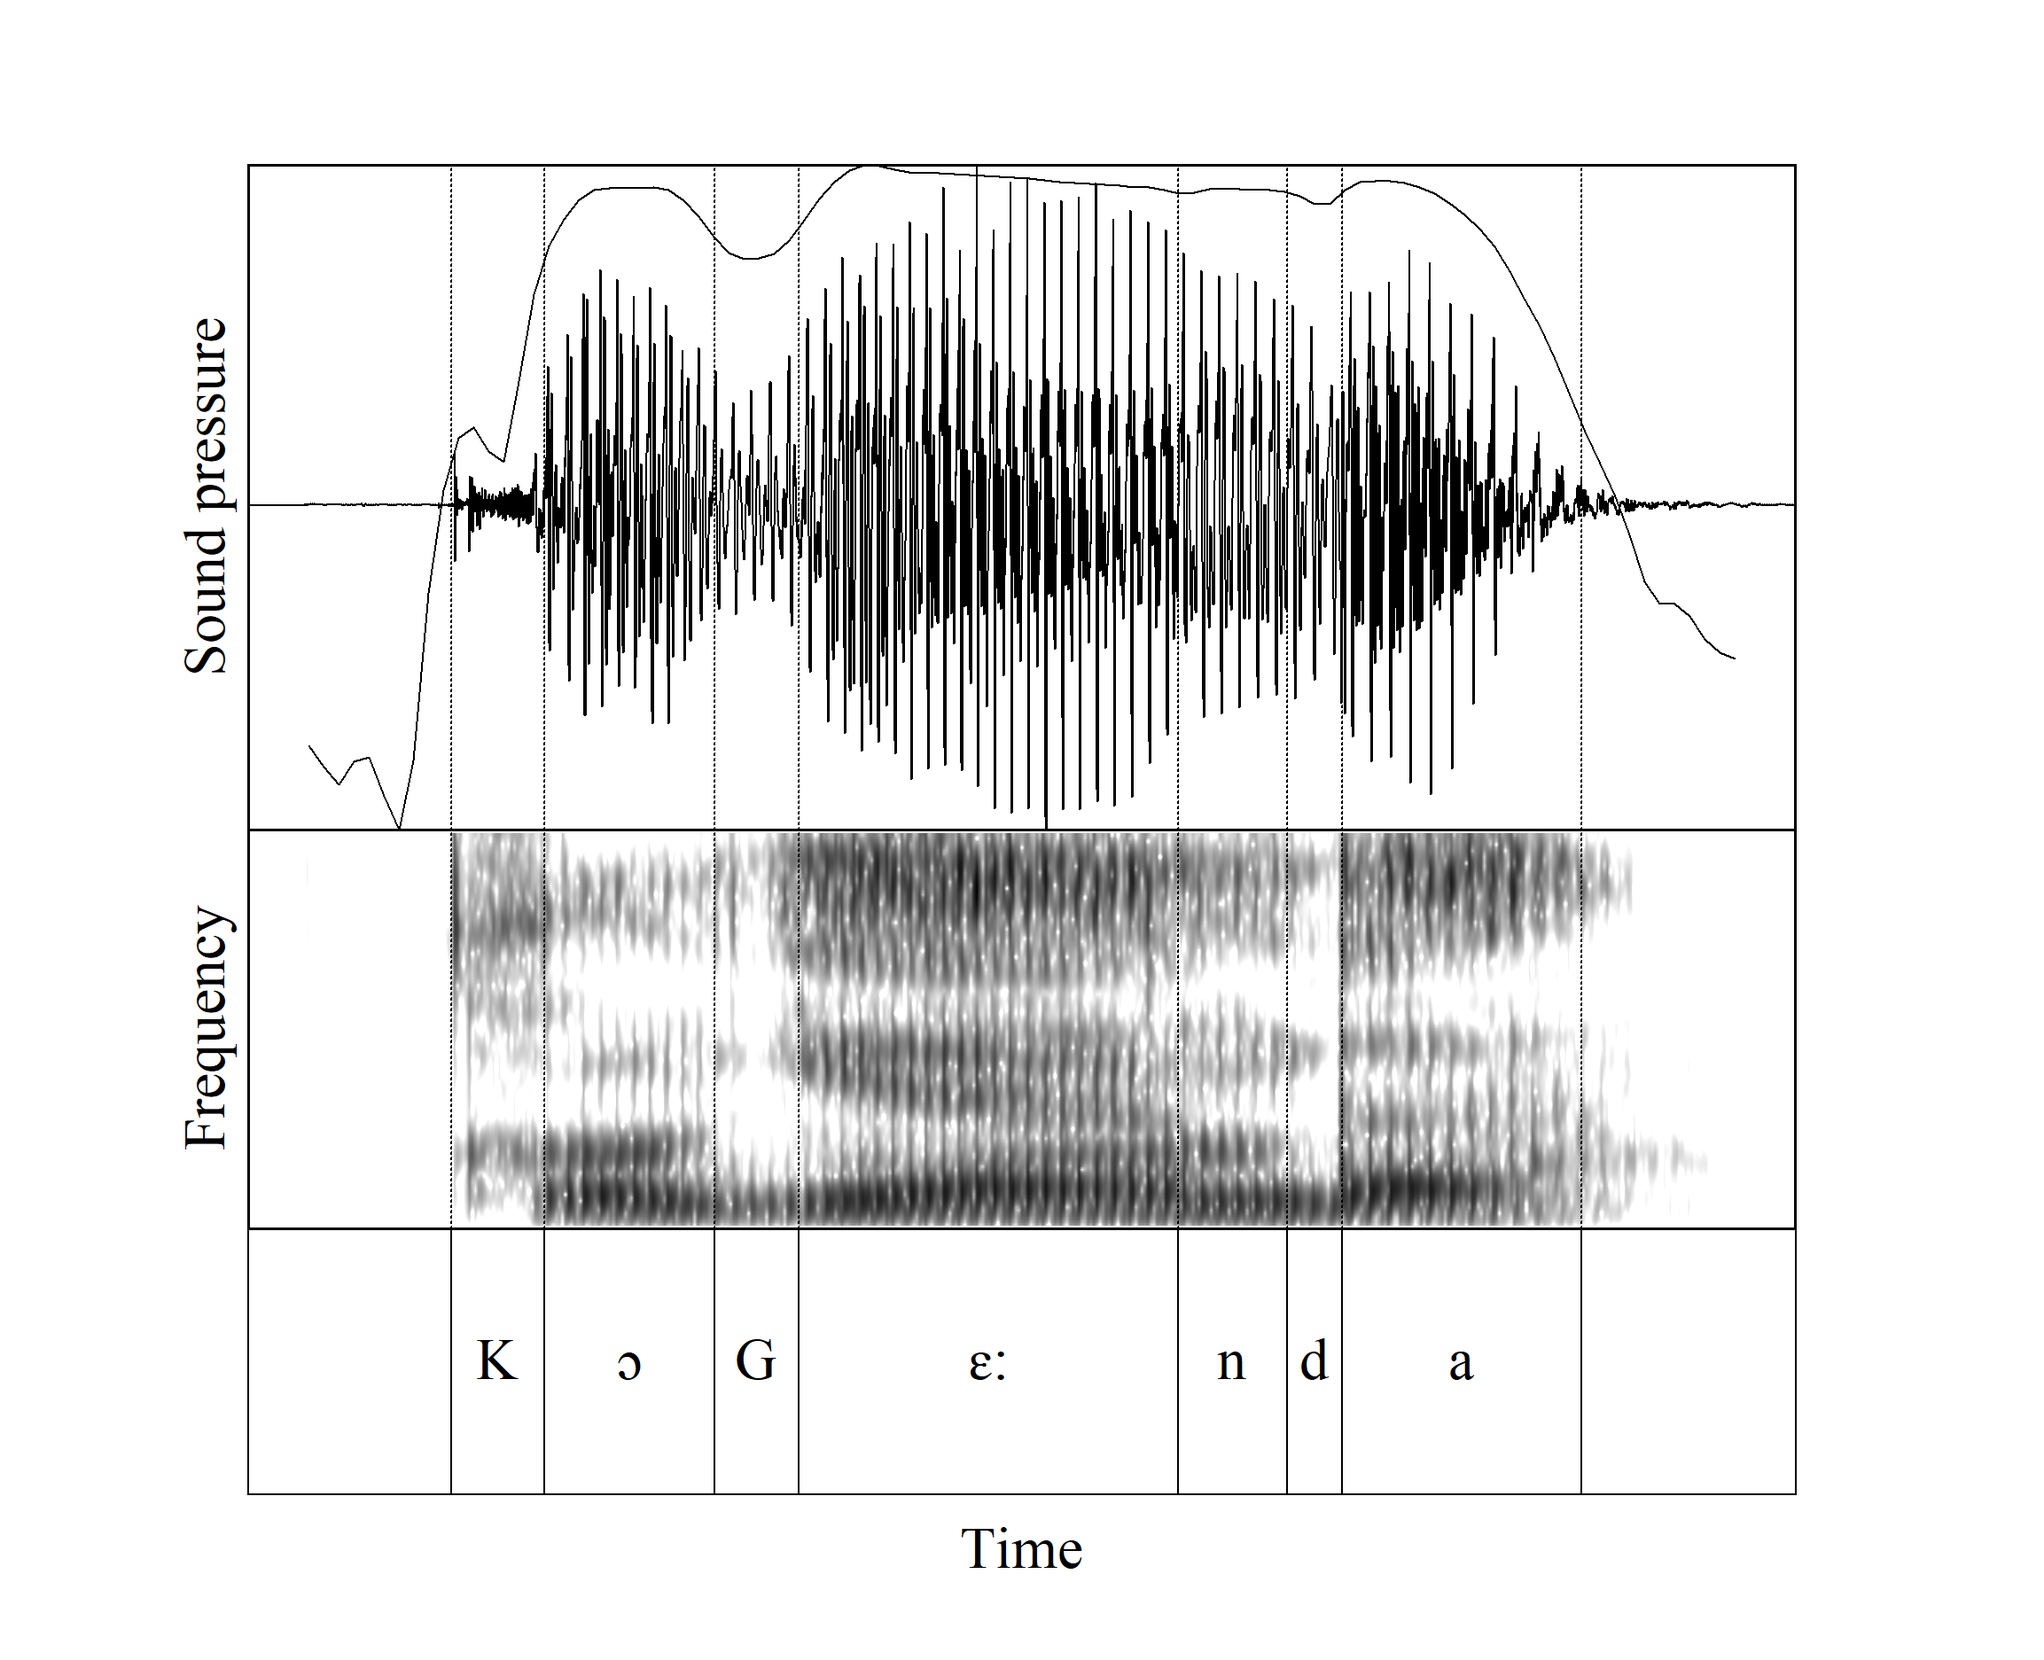
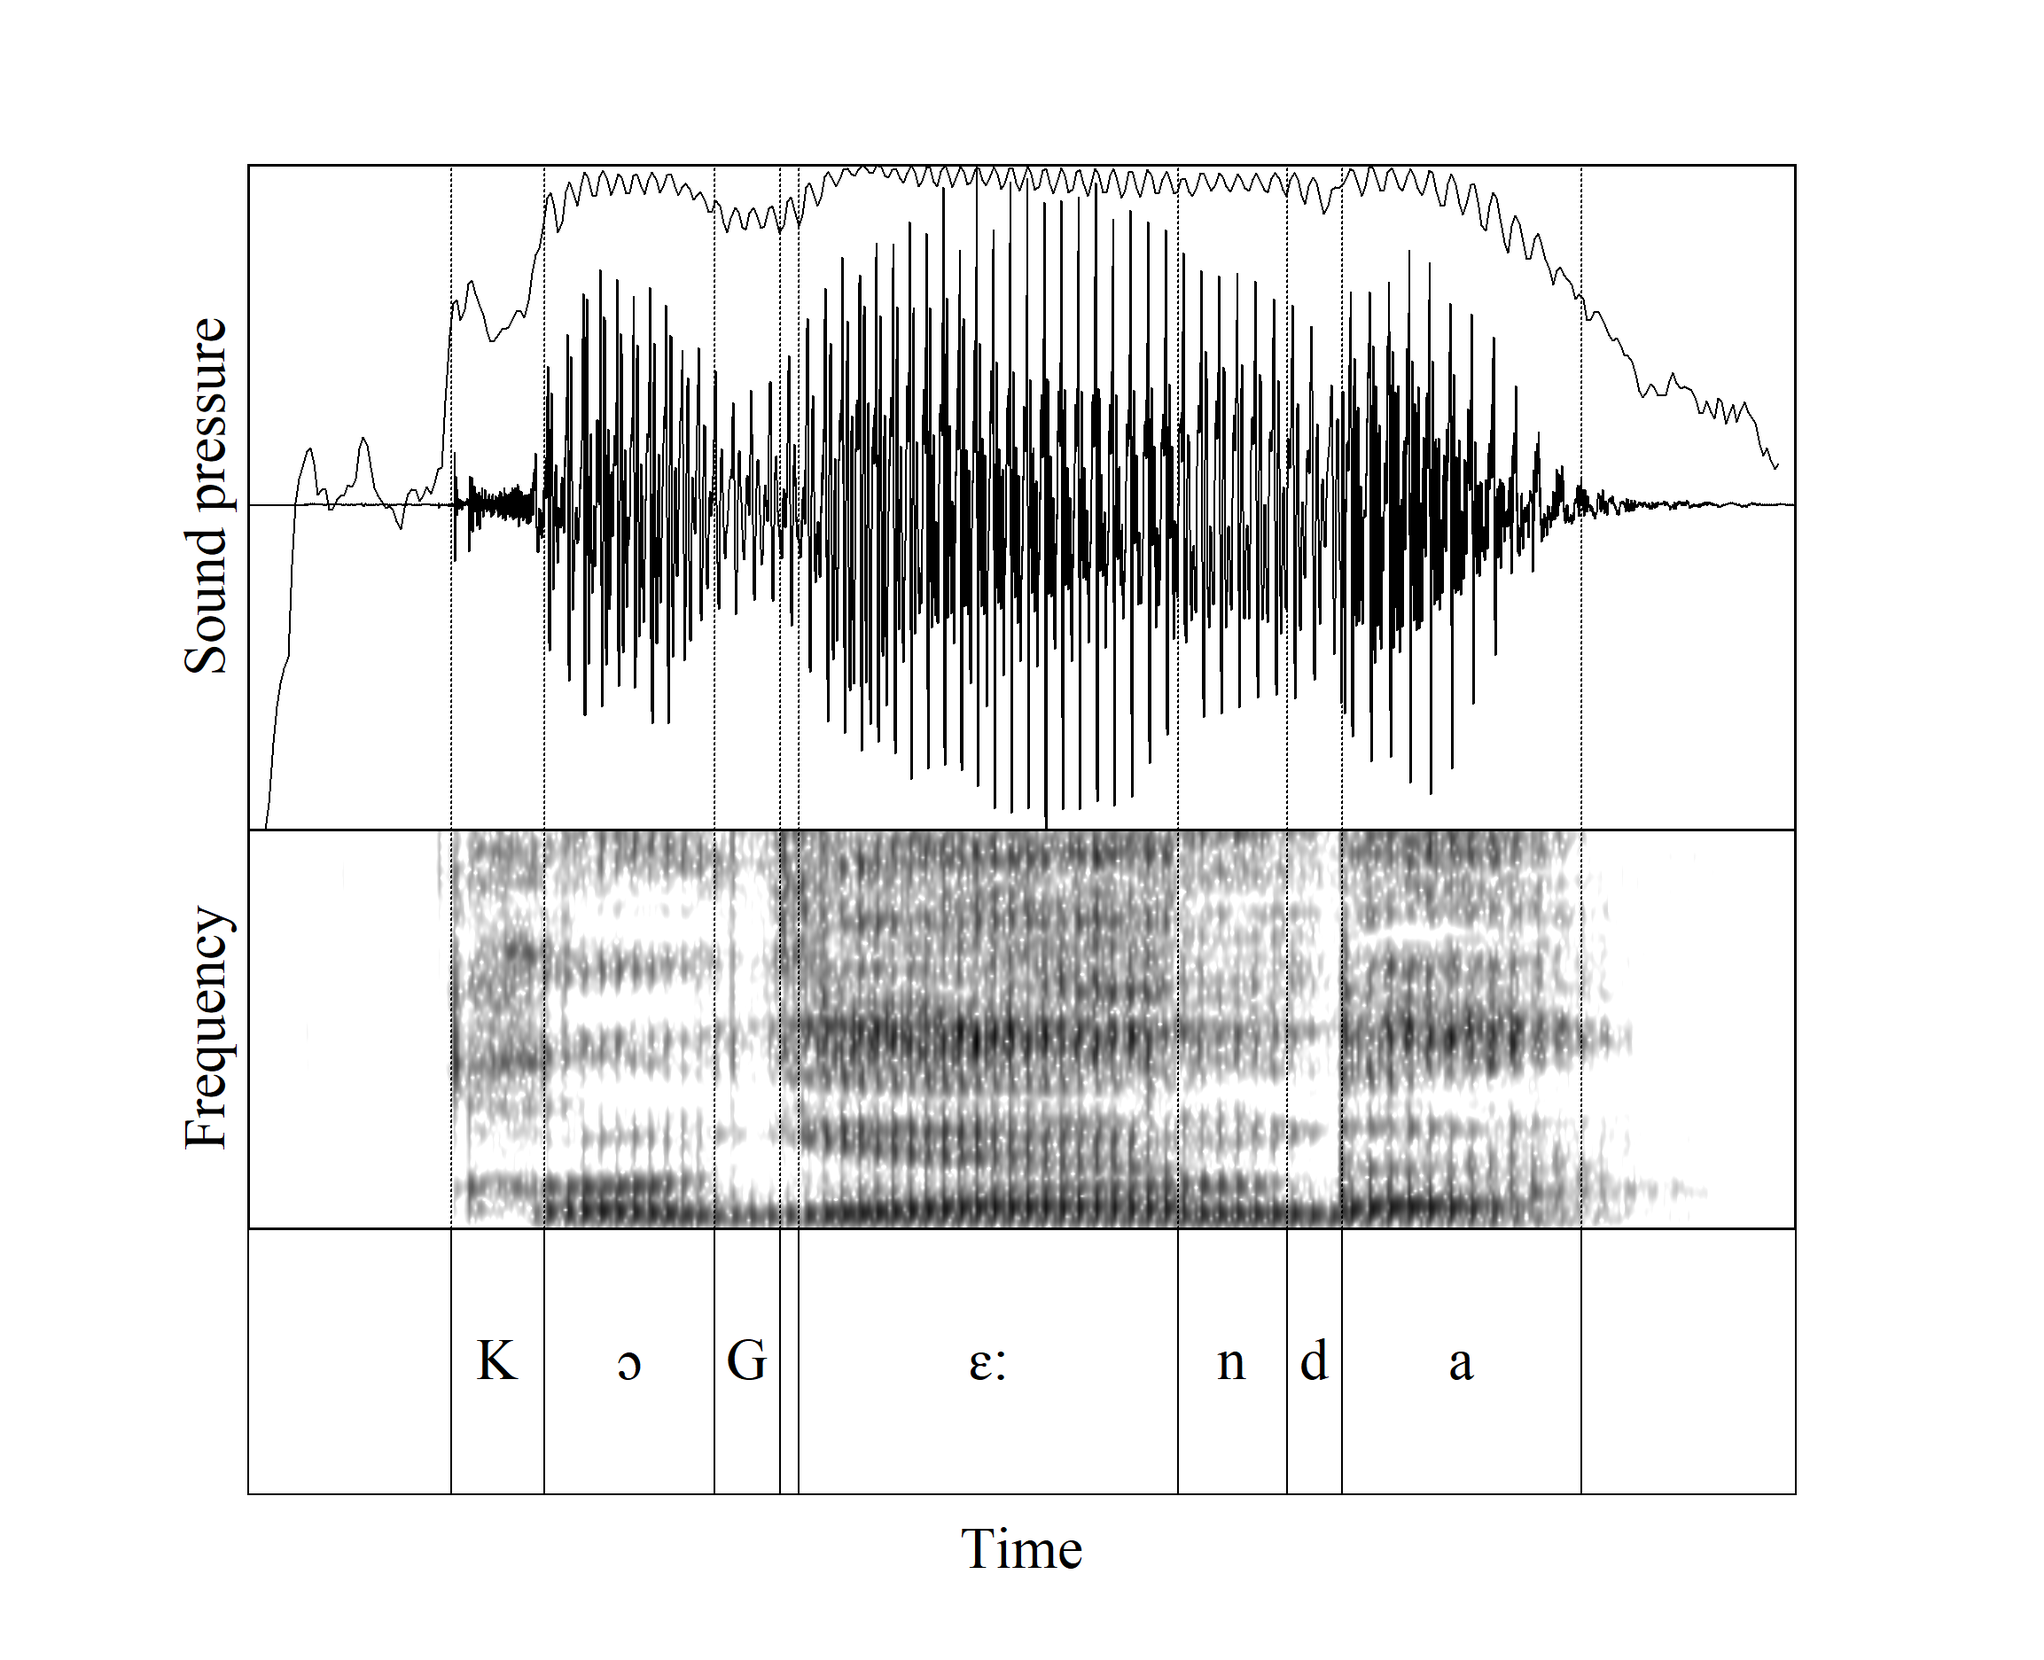
New constriction pages

diff --git a/Lconstrict/index.html b/Lconstrict/index.html
@@ -4,7 +4,7 @@ h1 {text-align: center;}
 table {
   border: none;
   border-collapse: collapse;
-  width: 75%;
+  width: 95%;
 }
 td {
   border: none;
@@ -17,23 +17,51 @@ td {
 </style>
 </head>
 <body>
+<b>Preliminary note</b></p>
+<p>Goal: Making the transition from visible acoustics to segmental analysis, <i>tabula rasa</i> w.r.t. (the) language, but with implicit knowledge of how humans can get from sounds to face stuff. Most specifically, "to make this acoustic interval, you need that degree of constriction over there (plus something about time)".</p>
+
+Capital letters refer to the constrictions in question. The focus is "G", secondarily "K". Intervals are <i>suggestive</i> of segments, unlabeled ones are points of interest ("how do we deal with this?"). I mostly avoid nanosegmentation but kuzina was too special to pass up. For initial "K", "t" the symbol is in the first interval with detectable acoustic activity – which may not show up on this screen, usually a bit of waveform activity. Spelling is in the second column. Spectrograms to 10K. Amplitude (somewhat redundant indicator of constriction) is at 300Hz, 2.5 msc step. Commentary is about the preceding pictures.<p>
+<b>The conclusion(s)</b>. Velar (obstruents) are implemented with a loose constriction and tolerate substantial variation in constriction, perhaps 4 on a 6-point scale, ±1.5. Evidence for constriction is release-biased (amplitude decreases during closure because of pressure build-up which is slow, we cannot directly see how constricted the left edge is). Coronal obstruents (mostly off-topic) have a tighter constriction target and less variation. Affricated release is kind of a feature of k, t.</p>
+
 
 <table><tbody>
-<tr><td style="width:5%"><audio id="FI2401230220391_042.mp3" preload = "none" src="FI2401230220391_042.mp3"></audio><button onclick="playAudio('FI2401230220391_042.mp3')" type="button">play</button></td><td style="width:25%">takwa</td><td style="width:40%">pay-nimp</td><td style="width:10%"><img src ="FI2401230220391_042.png" style="height:275px;"></td></tr>
+<tr><td style="width:10%"></td><td style="width:10%"></td><td style="width:15%"></td><td style="width:75%">Start-up stop / fricative tutorial</td></tr>
+<tr><td><audio id="FI2401230220391_042.mp3" preload = "none" src="FI2401230220391_042.mp3"></audio><button onclick="playAudio('FI2401230220391_042.mp3')" type="button">play</button></td><td>takwa</td><td>pay-nimp</td><td><img src ="FI2401230220391_042.png" style="height:275px;"></td></tr>
+<tr><td></td><td></td><td></td><td>Closure of initial voiceless stop (t) is usually invisible save for inhalation and spit. We see release burst as built-up pressure is quickly released. Shows up as spike and zigzag in the waveform and higher frequency dark stuff in the spectrogram. Please suppress curiosity about K.</td></tr>
 <tr><td><audio id="FI2407240542481_105.mp3" preload = "none" src="FI2407240542481_105.mp3"></audio><button onclick="playAudio('FI2407240542481_105.mp3')" type="button">play</button></td><td>kutala</td><td>pass rumors-inf</td><td><img src ="FI2407240542481_105.png" style="height:275px;"></td></tr>
+<tr><td></td><td></td><td></td><td>With medial t, waveform amplitude of vowel decreases a bit before t, there is even a tiny reverse release burst at the end of the vowel (spit?). Vowel amplitude drops precipitously into closure, voicing "leaks" into the first half of the closure, then a bigger release burst (magnitude-higher, longer) after closure. </td></tr>
 <tr><td><audio id="FI2402270528161_012.mp3" preload = "none" src="FI2402270528161_012.mp3"></audio><button onclick="playAudio('FI2402270528161_012.mp3')" type="button">play</button></td><td>dola</td><td>pick-imp</td><td><img src ="FI2402270528161_012.png" style="height:275px;"></td></tr>
+<tr><td></td><td></td><td></td><td>Very low amplitude in waveform during initial d, little energy above fundamental during initial voiced closure. Suddenly, a (short, small) release burst 8 msc before obvious vowel as the vocal tract first opens, since pressure has not built up much.</td></tr>
 <tr><td><audio id="FI2403310520461_276.mp3" preload = "none" src="FI2403310520461_276.mp3"></audio><button onclick="playAudio('FI2403310520461_276.mp3')" type="button">play</button></td><td>kodola</td><td>pick-inf</td><td><img src ="FI2403310520461_276.png" style="height:275px;"></td></tr>
+<tr><td></td><td></td><td></td><td>Lots of air precedes intervocalic d, which gets quickly shut off by the tongue valve. Waveform amplitude starts to drop in ɔ́ 1 cycle before closure. During closure, amplitude drops substantially but there is still (significantly damped) energy up to 4K. Then there is a release burst, demonstrating sufficient constriction.</td></tr>
 <tr><td><audio id="FI2401140530321_054.mp3" preload = "none" src="FI2401140530321_054.mp3"></audio><button onclick="playAudio('FI2401140530321_054.mp3')" type="button">play</button></td><td>sosa</td><td>rest-imp</td><td><img src ="FI2401140530321_054.png" style="height:275px;"></td></tr>
+<tr><td></td><td></td><td></td><td>Illustrating partial constriction with initial s, amplitude ramps up slowly and reaches a respectable level because of substantial airflow. After the fricative noise period, glottal pulses re-assert themselves in the spectrogram at the lowest frequencies with higher-frequency noise; within 32 msc the pulses are fully visible. Amplitude of noise is much higher intervocalically (increased air flow between vowels). No burst since negligible pressure build up since no closure.</td></tr>
 <tr><td><audio id="FI2407042307000_095.mp3" preload = "none" src="FI2407042307000_095.mp3"></audio><button onclick="playAudio('FI2407042307000_095.mp3')" type="button">play</button></td><td>kuzina</td><td>pinch-inf</td><td><img src ="FI2407042307000_095.png" style="height:275px;"></td></tr>
+<tr><td></td><td></td><td></td><td>Higher-frequency noise becomes visible at the right edge of ʊ around the unlabeled interval, then there is a buzzy vowel with glottal pulses but a hole in the spectrogram between 2500 and 4000. The hole goes away as do the high frequency indicators of glottal pulses when it starts to sound like an ɪ-colored z. Waveform amplitude starts to fall at the right edge of ʊ, there is a brief bump up as the constriction narrows at the start of ɨ(z) then falls until the z(ɪ) portion. The take-away is that amplitude changes are smaller and slower.</td></tr>
+<tr><td></td></tr>
+<tr><td></td></tr>
+<tr><td></td><td></td><td></td><td>Now about K. Initial K usually it looks like very light fricative noise before the vowel (Kɔ́dɔ̂ɭa). Still, there are often release bursts. Intervocalic K has a period of decreasing amplitude like a less-damped version of the closure of t, which looks fairly voiced throughout (suggesting that there isn't a very strong and rapid closure). In intervocalic taKwa there is a double tap release and reasonably convincing high frequency noise. K is "less constricted". At the bottom, we can compare K and the phonemes /x, k/ of Tiriki, coming from the same guy's mouth (he is bilingual).</td></tr>
+<tr><td></td></tr>
+<tr><td></td></tr>
+<tr></tr>
+<tr><td></td><td></td><td></td><td><b>Application to velars</b></td></tr>
 <tr><td><audio id="FI2407240542481_152.mp3" preload = "none" src="FI2407240542481_152.mp3"></audio><button onclick="playAudio('FI2407240542481_152.mp3')" type="button">play</button></td><td>kugini</td><td>slander-1p past</td><td><img src ="FI2407240542481_152.png" style="height:275px;"></td></tr>
+<tr><td></td><td></td><td></td><td>Waveform amplitude drops at left edge of G, somewhat slowly. Strong across the board amplitude-damping above 3000. Release burst at right edge of G and rapid increase in amplitude. </td></tr>
 <tr><td><audio id="FI221219012954_352.mp3" preload = "none" src="FI221219012954_352.mp3"></audio><button onclick="playAudio('FI221219012954_352.mp3')" type="button">play</button></td><td>kogenya</td><td>wonder-inf</td><td><img src ="FI221219012954_352.png" style="height:275px;"></td></tr>
+<tr><td></td><td></td><td></td><td>Slow and small decrease then increase in waveform amplitude into and during G. Little effect on spectrogram amplitude. Perceptual boundary between ɔ and G or G and ɛ very hard to discern. No release burst. This and preceding <i>sound</i> different. There is only (some) constriction, not closure.</td></tr>
 <tr><td><audio id="FI2407240542481_076.mp3" preload = "none" src="FI2407240542481_076.mp3"></audio><button onclick="playAudio('FI2407240542481_076.mp3')" type="button">play</button></td><td>kugika</td><td>exaggerate-inf</td><td><img src ="FI2407240542481_076.png" style="height:275px;"></td></tr>
+<tr><td></td><td></td><td></td><td>This example is like kugini, rapid change in amplitude and fairly substantial change. However, not <i>as</i> damped in high frequencies compared to kugini. Release burst not as strong, more spread out over time. Less strongly constricted compared to kugini.</td></tr>
 <tr><td><audio id="FI230130045955_179.mp3" preload = "none" src="FI230130045955_179.mp3"></audio><button onclick="playAudio('FI230130045955_179.mp3')" type="button">play</button></td><td>kovega</td><td>shave-inf</td><td><img src ="FI230130045955_179.png" style="height:275px;"></td></tr>
+<tr><td></td><td></td><td></td><td>G is similar to what we see in intervocalic kogenya, but with midpoint reduction in amplitude being greater, and certainly not rapid. No burst: still not closed, but more constricted.</td></tr>
+<tr><td></td></tr>
+<tr><td></td><td></td><td></td><td>Now examples with more-intermediate degrees of constriction, where the stop / fricative distinction is more tenuous.</td></tr>
 <tr><td><audio id="FI2407240542481_143.mp3" preload = "none" src="FI2407240542481_143.mp3"></audio><button onclick="playAudio('FI2407240542481_143.mp3')" type="button">play</button></td><td>kugimbi</td><td>make rain-1p past</td><td><img src ="FI2407240542481_143.png" style="height:275px;"></td></tr>
 <tr><td><audio id="FI2407240542481_057.mp3" preload = "none" src="FI2407240542481_057.mp3"></audio><button onclick="playAudio('FI2407240542481_057.mp3')" type="button">play</button></td><td>kuguta</td><td>stack-inf</td><td><img src ="FI2407240542481_057.png" style="height:275px;"></td></tr>
 <tr><td><audio id="FI2407240542481_055.mp3" preload = "none" src="FI2407240542481_055.mp3"></audio><button onclick="playAudio('FI2407240542481_055.mp3')" type="button">play</button></td><td>kuguta</td><td>win-inf</td><td><img src ="FI2407240542481_055.png" style="height:275px;"></td></tr>
 <tr><td><audio id="FI2407240542481_127.mp3" preload = "none" src="FI2407240542481_127.mp3"></audio><button onclick="playAudio('FI2407240542481_127.mp3')" type="button">play</button></td><td>kuguti</td><td>stack-1p past</td><td><img src ="FI2407240542481_127.png" style="height:275px;"></td></tr>
 <tr><td><audio id="FI221219012954_354.mp3" preload = "none" src="FI221219012954_354.mp3"></audio><button onclick="playAudio('FI221219012954_354.mp3')" type="button">play</button></td><td>kogonya</td><td>persuade-inf</td><td><img src ="FI221219012954_354.png" style="height:275px;"></td></tr>
+<tr><td></td></tr>
+<tr><td></td><td></td><td></td><td>And now the root Geend in various tokens: substantial variation in the stop / fricative properties within the same linguistic unit (lexical root).</td></tr>
 <tr><td><audio id="FI2409080340561_052.mp3" preload = "none" src="FI2409080340561_052.mp3"></audio><button onclick="playAudio('FI2409080340561_052.mp3')" type="button">play</button></td><td>kogendi</td><td>walk-1p past</td><td><img src ="FI2409080340561_052.png" style="height:275px;"></td></tr>
 <tr><td><audio id="FI2409080340561_013.mp3" preload = "none" src="FI2409080340561_013.mp3"></audio><button onclick="playAudio('FI2409080340561_013.mp3')" type="button">play</button></td><td>kogendi</td><td>walk-1p past</td><td><img src ="FI2409080340561_013.png" style="height:275px;"></td></tr>
 <tr><td><audio id="FI2407240542481_148.mp3" preload = "none" src="FI2407240542481_148.mp3"></audio><button onclick="playAudio('FI2407240542481_148.mp3')" type="button">play</button></td><td>kogendi</td><td>walk-1p past</td><td><img src ="FI2407240542481_148.png" style="height:275px;"></td></tr>
@@ -41,5 +69,11 @@ td {
 <tr><td><audio id="FI2407240542481_078.mp3" preload = "none" src="FI2407240542481_078.mp3"></audio><button onclick="playAudio('FI2407240542481_078.mp3')" type="button">play</button></td><td>kogenda</td><td>walk-inf</td><td><img src ="FI2407240542481_078.png" style="height:275px;"></td></tr>
 <tr><td><audio id="FI2409200532071_173.mp3" preload = "none" src="FI2409200532071_173.mp3"></audio><button onclick="playAudio('FI2409200532071_173.mp3')" type="button">play</button></td><td>kogendi</td><td>walk-1p pfcom</td><td><img src ="FI2409200532071_173.png" style="height:275px;"></td></tr>
 <tr><td></td><td></td><td>(koogeendi)</td></tr>
+<tr><td></td></tr>
+<tr><td></td><td></td><td></td><td>Inter-lingual comparison of Logoori K, and the two Tiriki phonemes k, x</td></tr>
+<tr><td><audio id="FI221219012954_283.mp3" preload = "none" src="FI221219012954_283.mp3"></audio><button onclick="playAudio('FI221219012954_283.mp3')" type="button">play</button></td><td>lʊKa[L]</td><td>vomit-imp</td><td><img src ="FI221219012954_283.png" style="height:275px;"></td></tr>
+<tr><td><audio id="FI2407240542481_232.mp3" preload = "none" src="FI2407240542481_232.mp3"></audio><button onclick="playAudio('FI2407240542481_232.mp3')" type="button">play</button></td><td>luka[T]</td><td>make ugali-imp</td><td><img src ="FI2407240542481_232.png" style="height:275px;"></td></tr>
+<tr><td><audio id="FI2407240542481_242.mp3" preload = "none" src="FI2407240542481_242.mp3"></audio><button onclick="playAudio('FI2407240542481_242.mp3')" type="button">play</button></td><td>luxa[T]</td><td>vomit-imp</td><td><img src ="FI2407240542481_242.png" style="height:275px;"></td></tr>
+<tr><td></td><td></td><td></td><td>Unclear whether Logoori K and Tiriki k are the same. No /b,d,g/ in Tiriki.</td></tr>
 </tbody></table>
 </tbody></table> </body></html>
